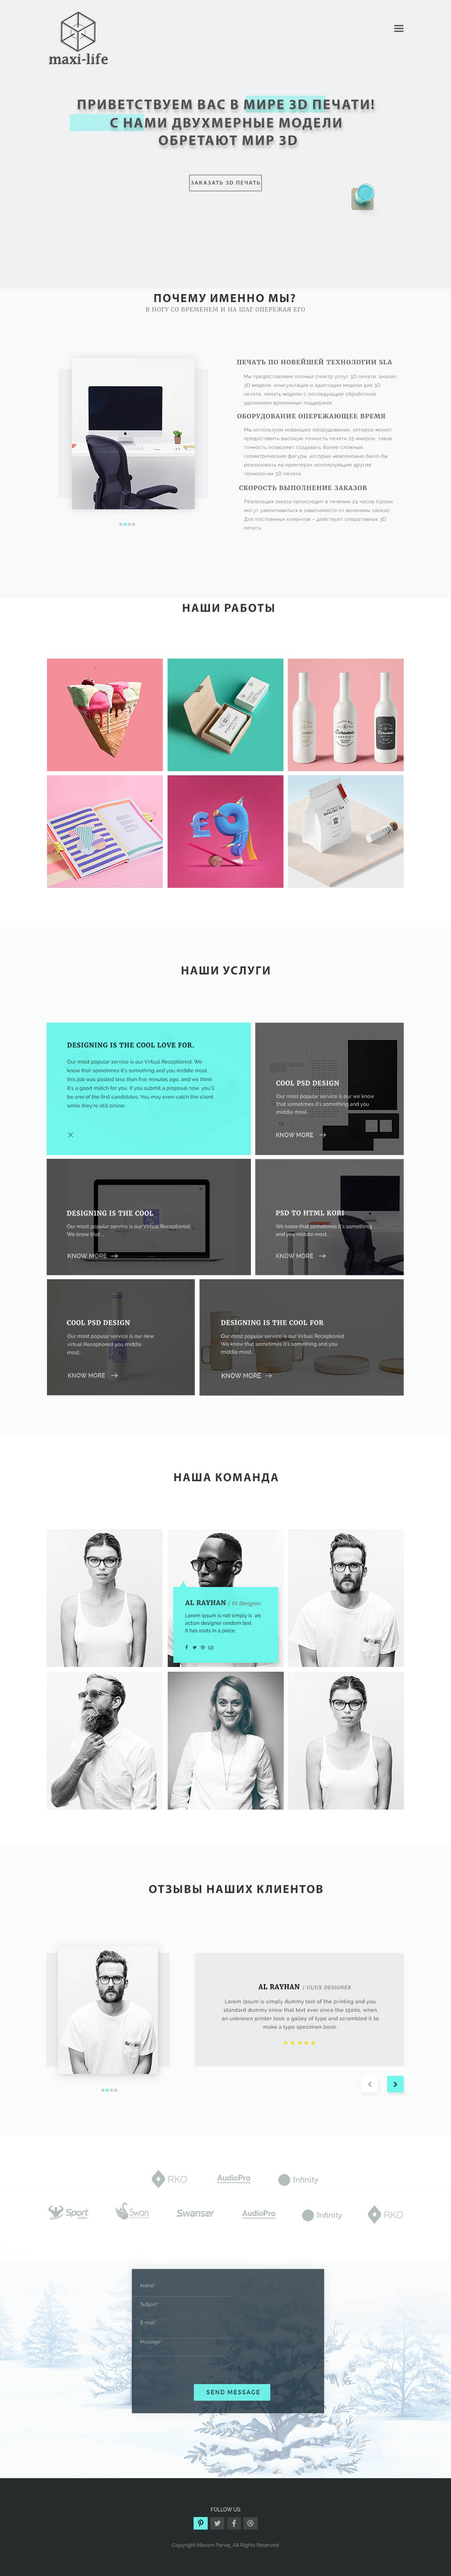
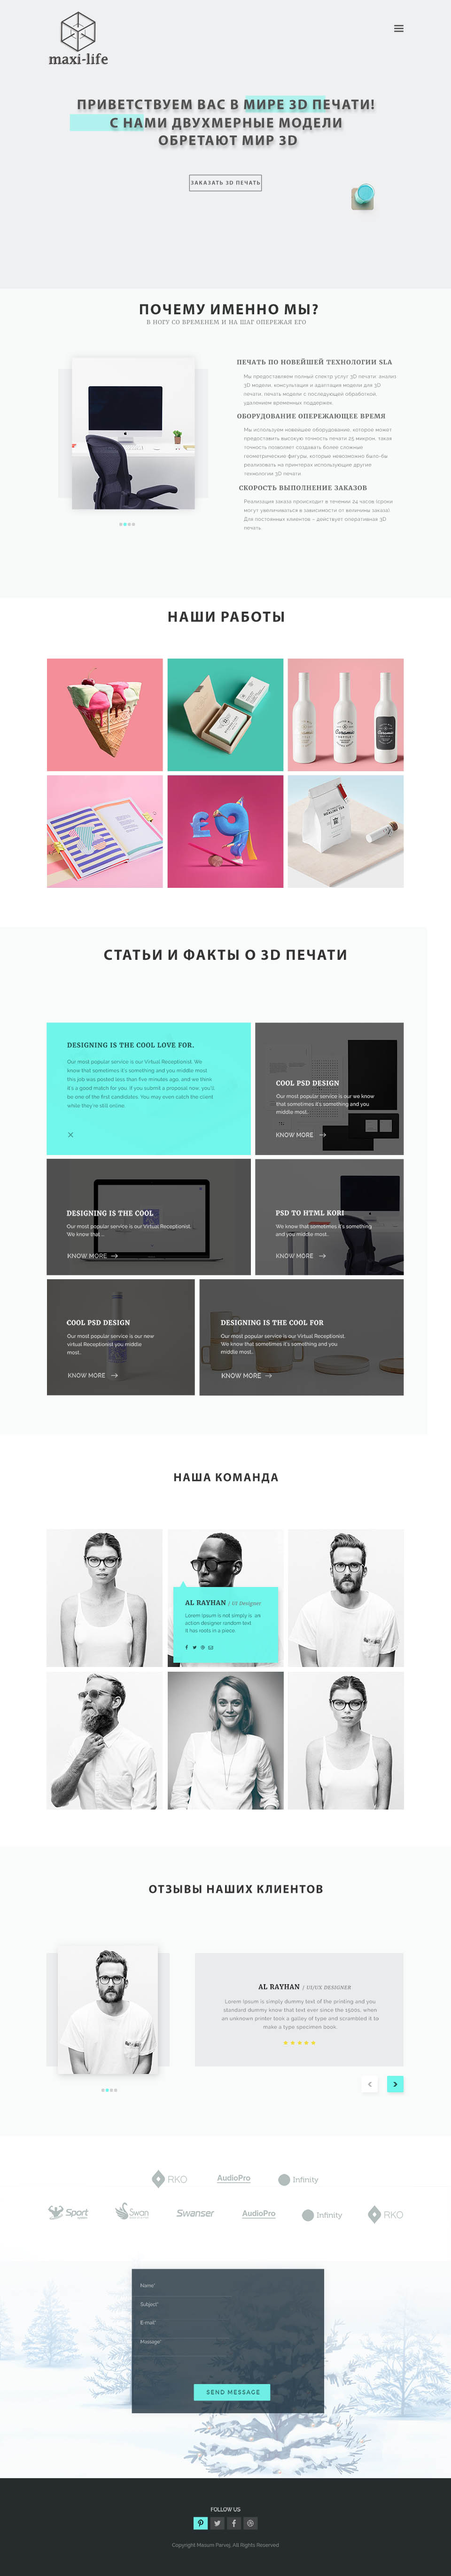
Добавлена разметка блока "Статьи" и "Команда"

Changed region(s): [[0.3438, 0.0937, 0.6562, 0.1249], [0.5, 0.2186, 0.5938, 0.2499], [0.4062, 0.2186, 0.4688, 0.2499]]

diff --git a/index.html b/index.html
@@ -29,30 +29,73 @@
               <div class="cols col-6 about-us-content-right">
               </div>
             </div>
-        </div>
-        <div class="presentation">
-          <div class="cols col-12 presentation-headline">
           </div>
-          <figure class="presentation-gallery">
-            <div class="cols col-4 collums">
-              <div class="rows">
+          <div class="presentation">
+            <div class="cols col-12 presentation-headline">
+            </div>
+            <div class="presentation-gallery">
+              <div class="cols col-4 collums">
+                <figure class="cell">
+                </figure>
+                <figure class="cell">
+                </figure>
               </div>
-              <div class="rows">
+              <div class="cols col-4 collums">
+                <figure class="cell">
+                </figure>
+                <figure class="cell">
+                </figure>
+              </div>
+              <div class="cols col-4 collums">
+                <figure class="cell">
+                </figure>
+                <figure class="cell">
+                </figure>
               </div>
             </div>
-            <div class="cols col-4 collums">
-              <div class="rows">
+          </div>
+          <div class="cols col-12 services">
+            <div class="cols col-12 services-headline">
+            </div>
+            <div class="services-articles">
+              <article class="cols col-7 row-1">
+              </article>
+              <article class="cols col-5 row-1">
+              </article>
+              <article class="cols col-7 row-2">
+              </article>
+              <article class="cols col-5 row-2">
+              </article>
+              <article class="cols col-5 row-2">
+              </article>
+              <article class="cols col-7 row-2">
+              </article>
+            </div>
+          </div>
+          <div class="team">
+            <div class="cols col-12 team-headline">
+            </div>
+            <div class="team-gallery">
+              <div class="cols col-4 team-collums">
+                <figure class="team-cell">
+                </figure>
+                <figure class="team-cell">
+                </figure>
               </div>
-              <div class="rows">
+              <div class="cols col-4 team-collums">
+                <figure class="team-cell">
+                </figure>
+                <figure class="team-cell">
+                </figure>
+              </div>
+              <div class="cols col-4 team-collums">
+                <figure class="team-cell">
+                </figure>
+                <figure class="team-cell">
+                </figure>
               </div>
             </div>
-            <div class="cols col-4 collums">
-              <div class="rows">
-              </div>
-              <div class="rows">
-              </div>
-            </div>
-          </figure>
+          </div>
         </div>
     </body>
 </html>

diff --git a/css/styles.css b/css/styles.css
@@ -8,6 +8,7 @@
 
 body{
   width:90%;
+  max-width: 960px;
   margin: 0 auto;
 
   background: #191919 url("../img/bg_grid.jpg") no-repeat center;
@@ -106,7 +107,8 @@ header{
 }
 
 .about-us-headline{
-  margin-bottom: 5em; /*80px / 16px*/
+  margin-top: 1.5625em; /*20px / 16px*/
+  margin-bottom: 2.8125em; /*80px / 16px*/
   /*удалить после верстки*/
   border: 1px solid blue;
   height: 3.75em;/*60px / 16px*/
@@ -143,10 +145,11 @@ header{
 }
 
 .presentation-headline{
-  margin-bottom: 5.625em; /*80px / 16px*/
+  margin-top:1.5625em; /*20px / 16px*/
+  margin-bottom: 4.0625em; /*65px / 16px*/
   /*удалить после верстки*/
   border: 1px solid blue;
-  height: 2.5em;/*40px / 16px*/
+  height: 2.5em; /*40px / 16px*/
 }
 
 .presentation-gallery{
@@ -154,21 +157,97 @@ header{
   width: 100%; /*780px / 780px*/
   /*удалить после верстки*/
   border: 1px solid green;
-  height: 31.25em; /*500px / 16pxx*/
+  height: 31.25em; /*500px / 16px*/
 }
 
 .collums{
   float: left;
   /*удалить после верстки*/
   border: 1px solid blue;
-  height: 31.25em; /*485px / 16pxx*/
+  height: 31.25em; /*485px / 16px*/
 }
 
-.rows{
+.cell{
   float:left;
   width: 95%;
   margin:2%;
   /*удалить после верстки*/
   border: 1px solid red;
-  height: 15em; /*485px / 16pxx*/
+  height: 15em; /*240px / 16px*/
+}
+
+.services{
+  float:left;
+  /*удалить после верстки*/
+  border: 1px solid red;
+  height: 67.5em; /*1080px / 16px*/
+}
+
+.services-headline{
+  margin-top: 2.8125em; /*45px / 16px*/
+
+  /*удалить после верстки*/
+  border: 1px solid blue;
+  height: 2.5em; /*40px / 16px*/
+}
+
+.services-articles{
+  float: left;
+  width: 97.43589743589744%; /*760px / 780px*/
+  margin: 0 1.282051282051282%; /*10px / 780px*/
+  margin-top: 7.8125em; /*125px / 16px*/
+
+  /*удалить после верстки*/
+  border: 1px solid green ;
+  height: 49.6875em; /*795px / 16px*/
+}
+
+.row-1{
+  /*удалить после верстки*/
+  border: 1px solid red;
+  height: 17.5em; /*280px / 16px*/
+}
+
+.row-2{
+  /*удалить после верстки*/
+  border: 1px solid red;
+  height: 15.9375em; /*255px / 16px*/
+}
+
+.team{
+  float: left;
+  width: 100%;
+  /*удалить после верстки*/
+  border: 1px solid grey;
+  height: 54.6875em; /*875px / 16px*/
+}
+
+.team-headline{
+  margin-top:4.6875em; /*75px / 16px*/
+  margin-bottom: 5.625em; /*90px / 16px*/
+  /*удалить после верстки*/
+  border: 1px solid blue;
+  height: 2.5em; /*40px / 16px*/
+}
+
+.team-collums{
+  float: left;
+  /*удалить после верстки*/
+  border: 1px solid blue;
+  height: 36.875em; /*595px / 16px*/
+}
+
+.team-cell{
+  width: 95%;
+  margin: 0 auto;
+  margin-bottom: 0.625em;
+
+  /*удалить после верстки*/
+  border: 1px solid red;
+  height: 18.125em;/*290px / 16px*/
+}
+
+.team-cell:last-child{
+  margin-bottom: 0;
+  border-color: black;
 }
